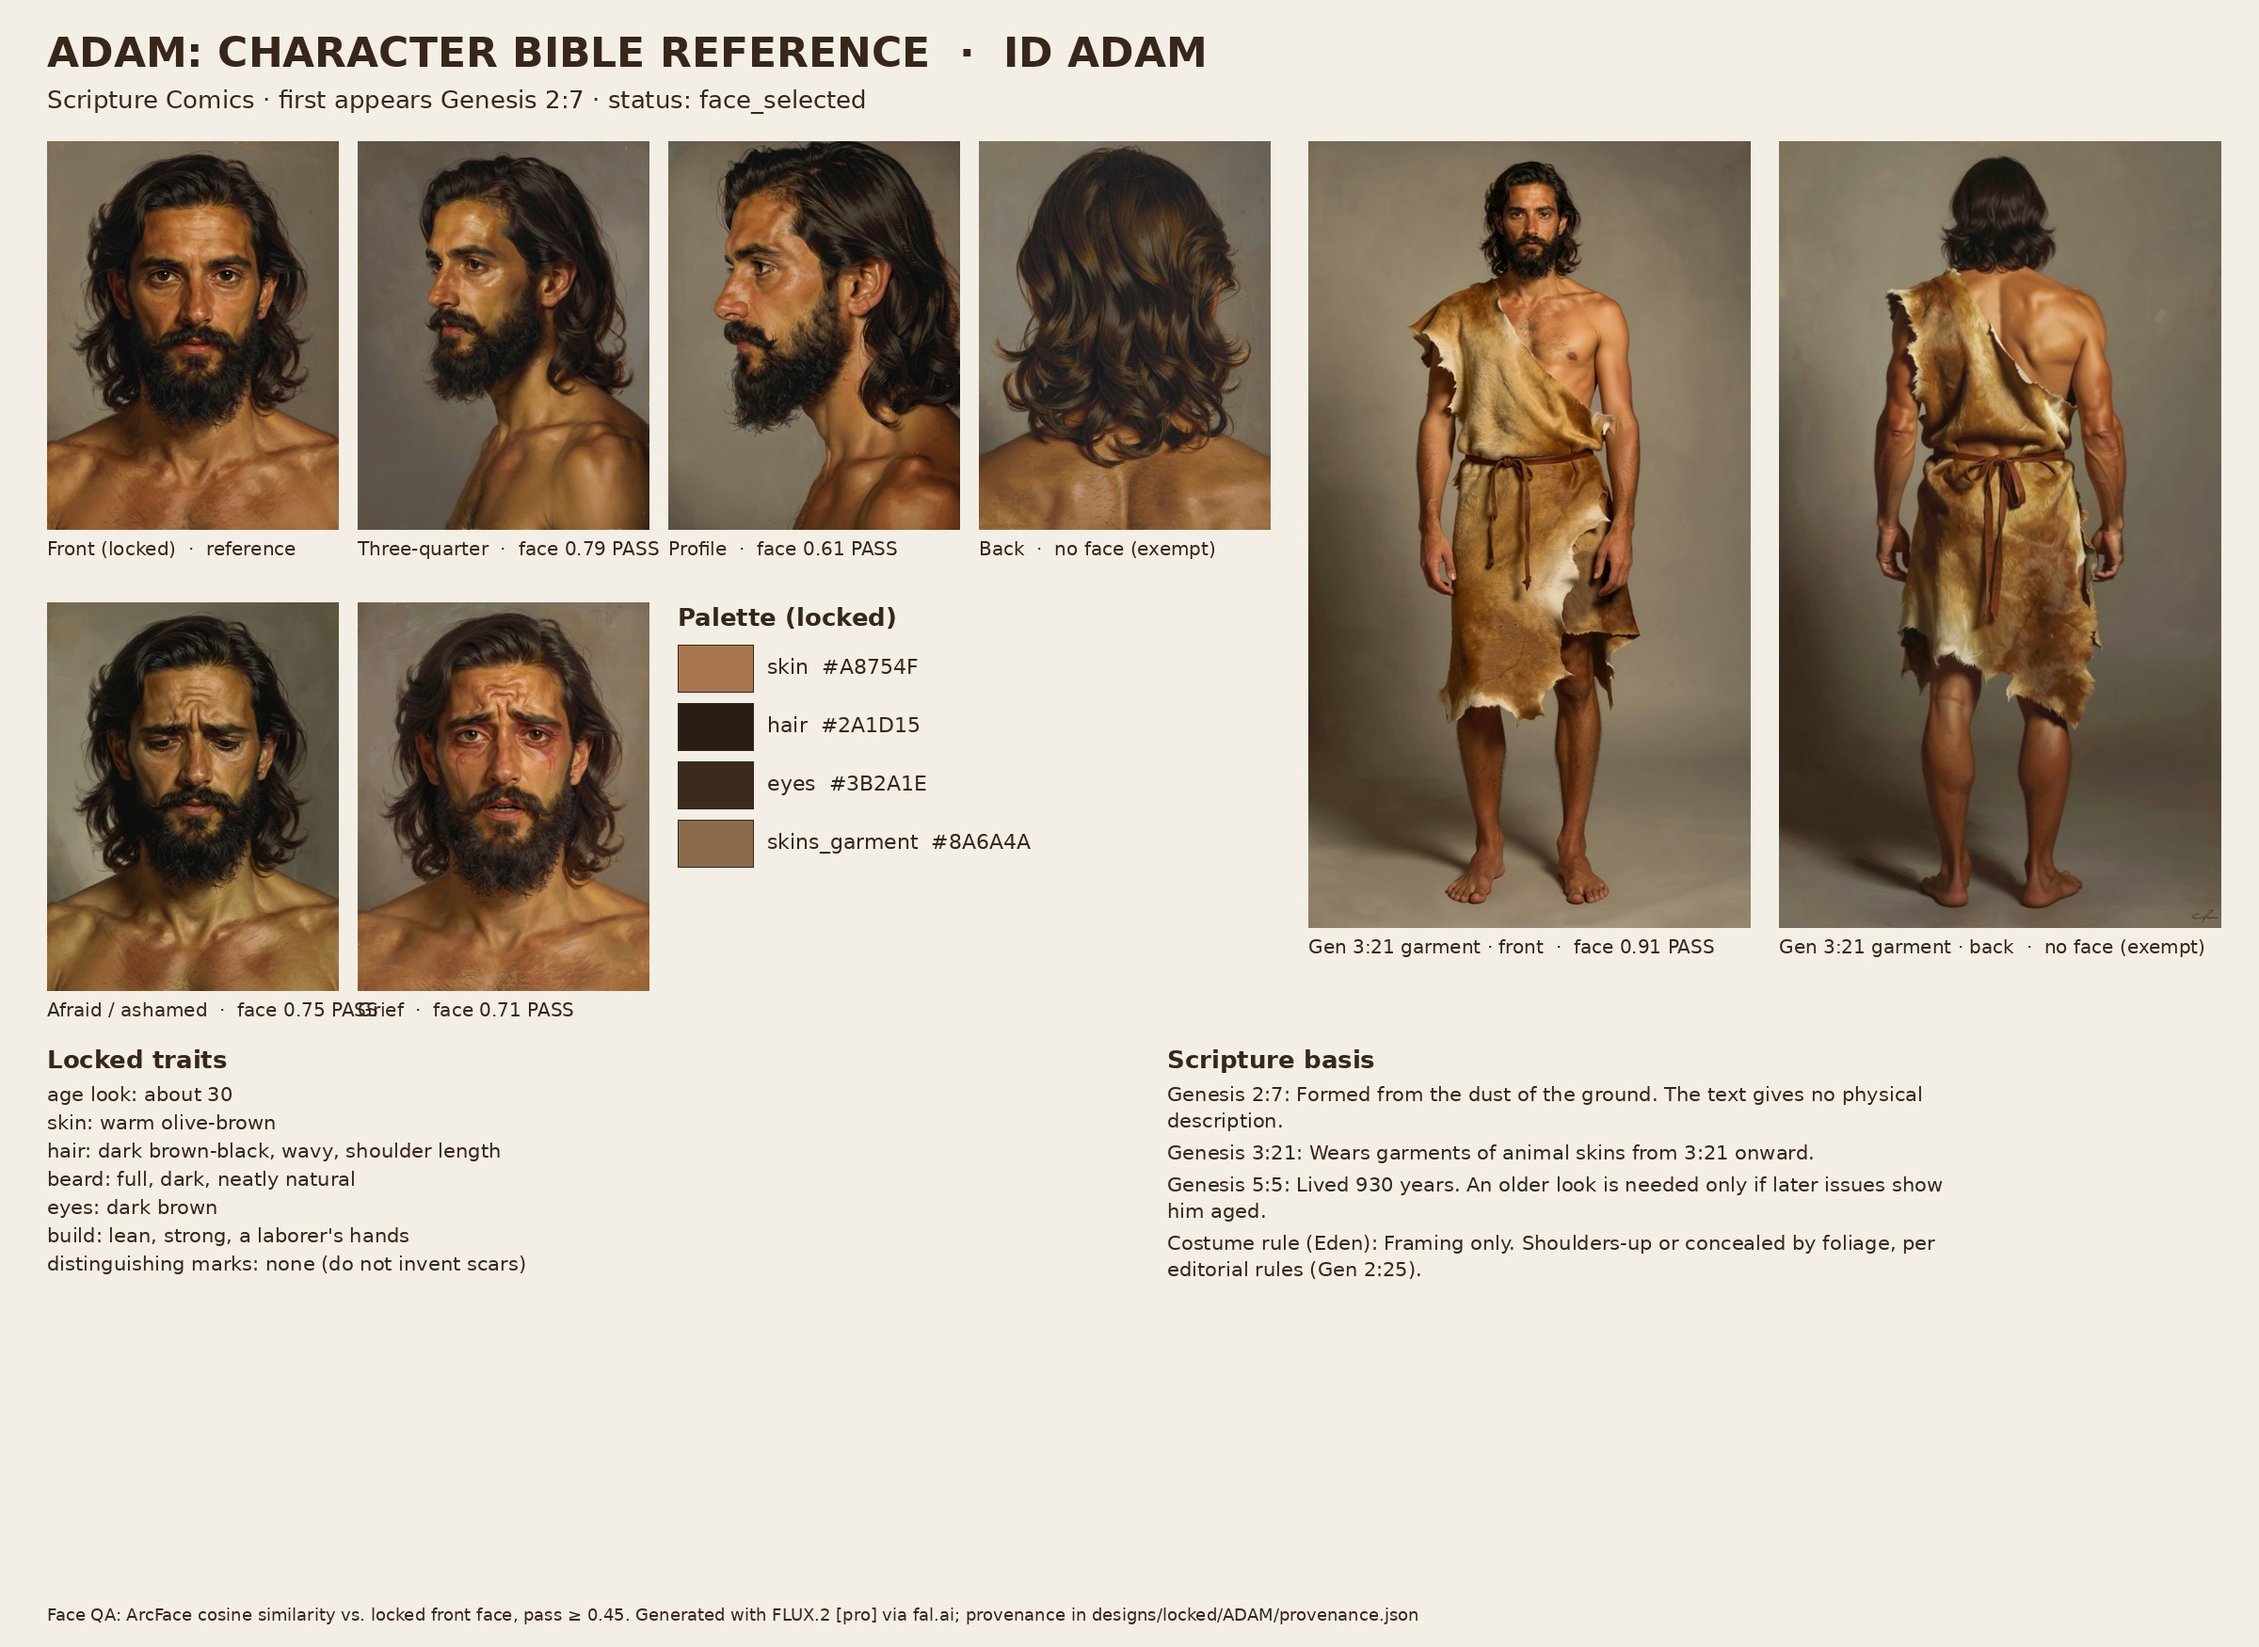
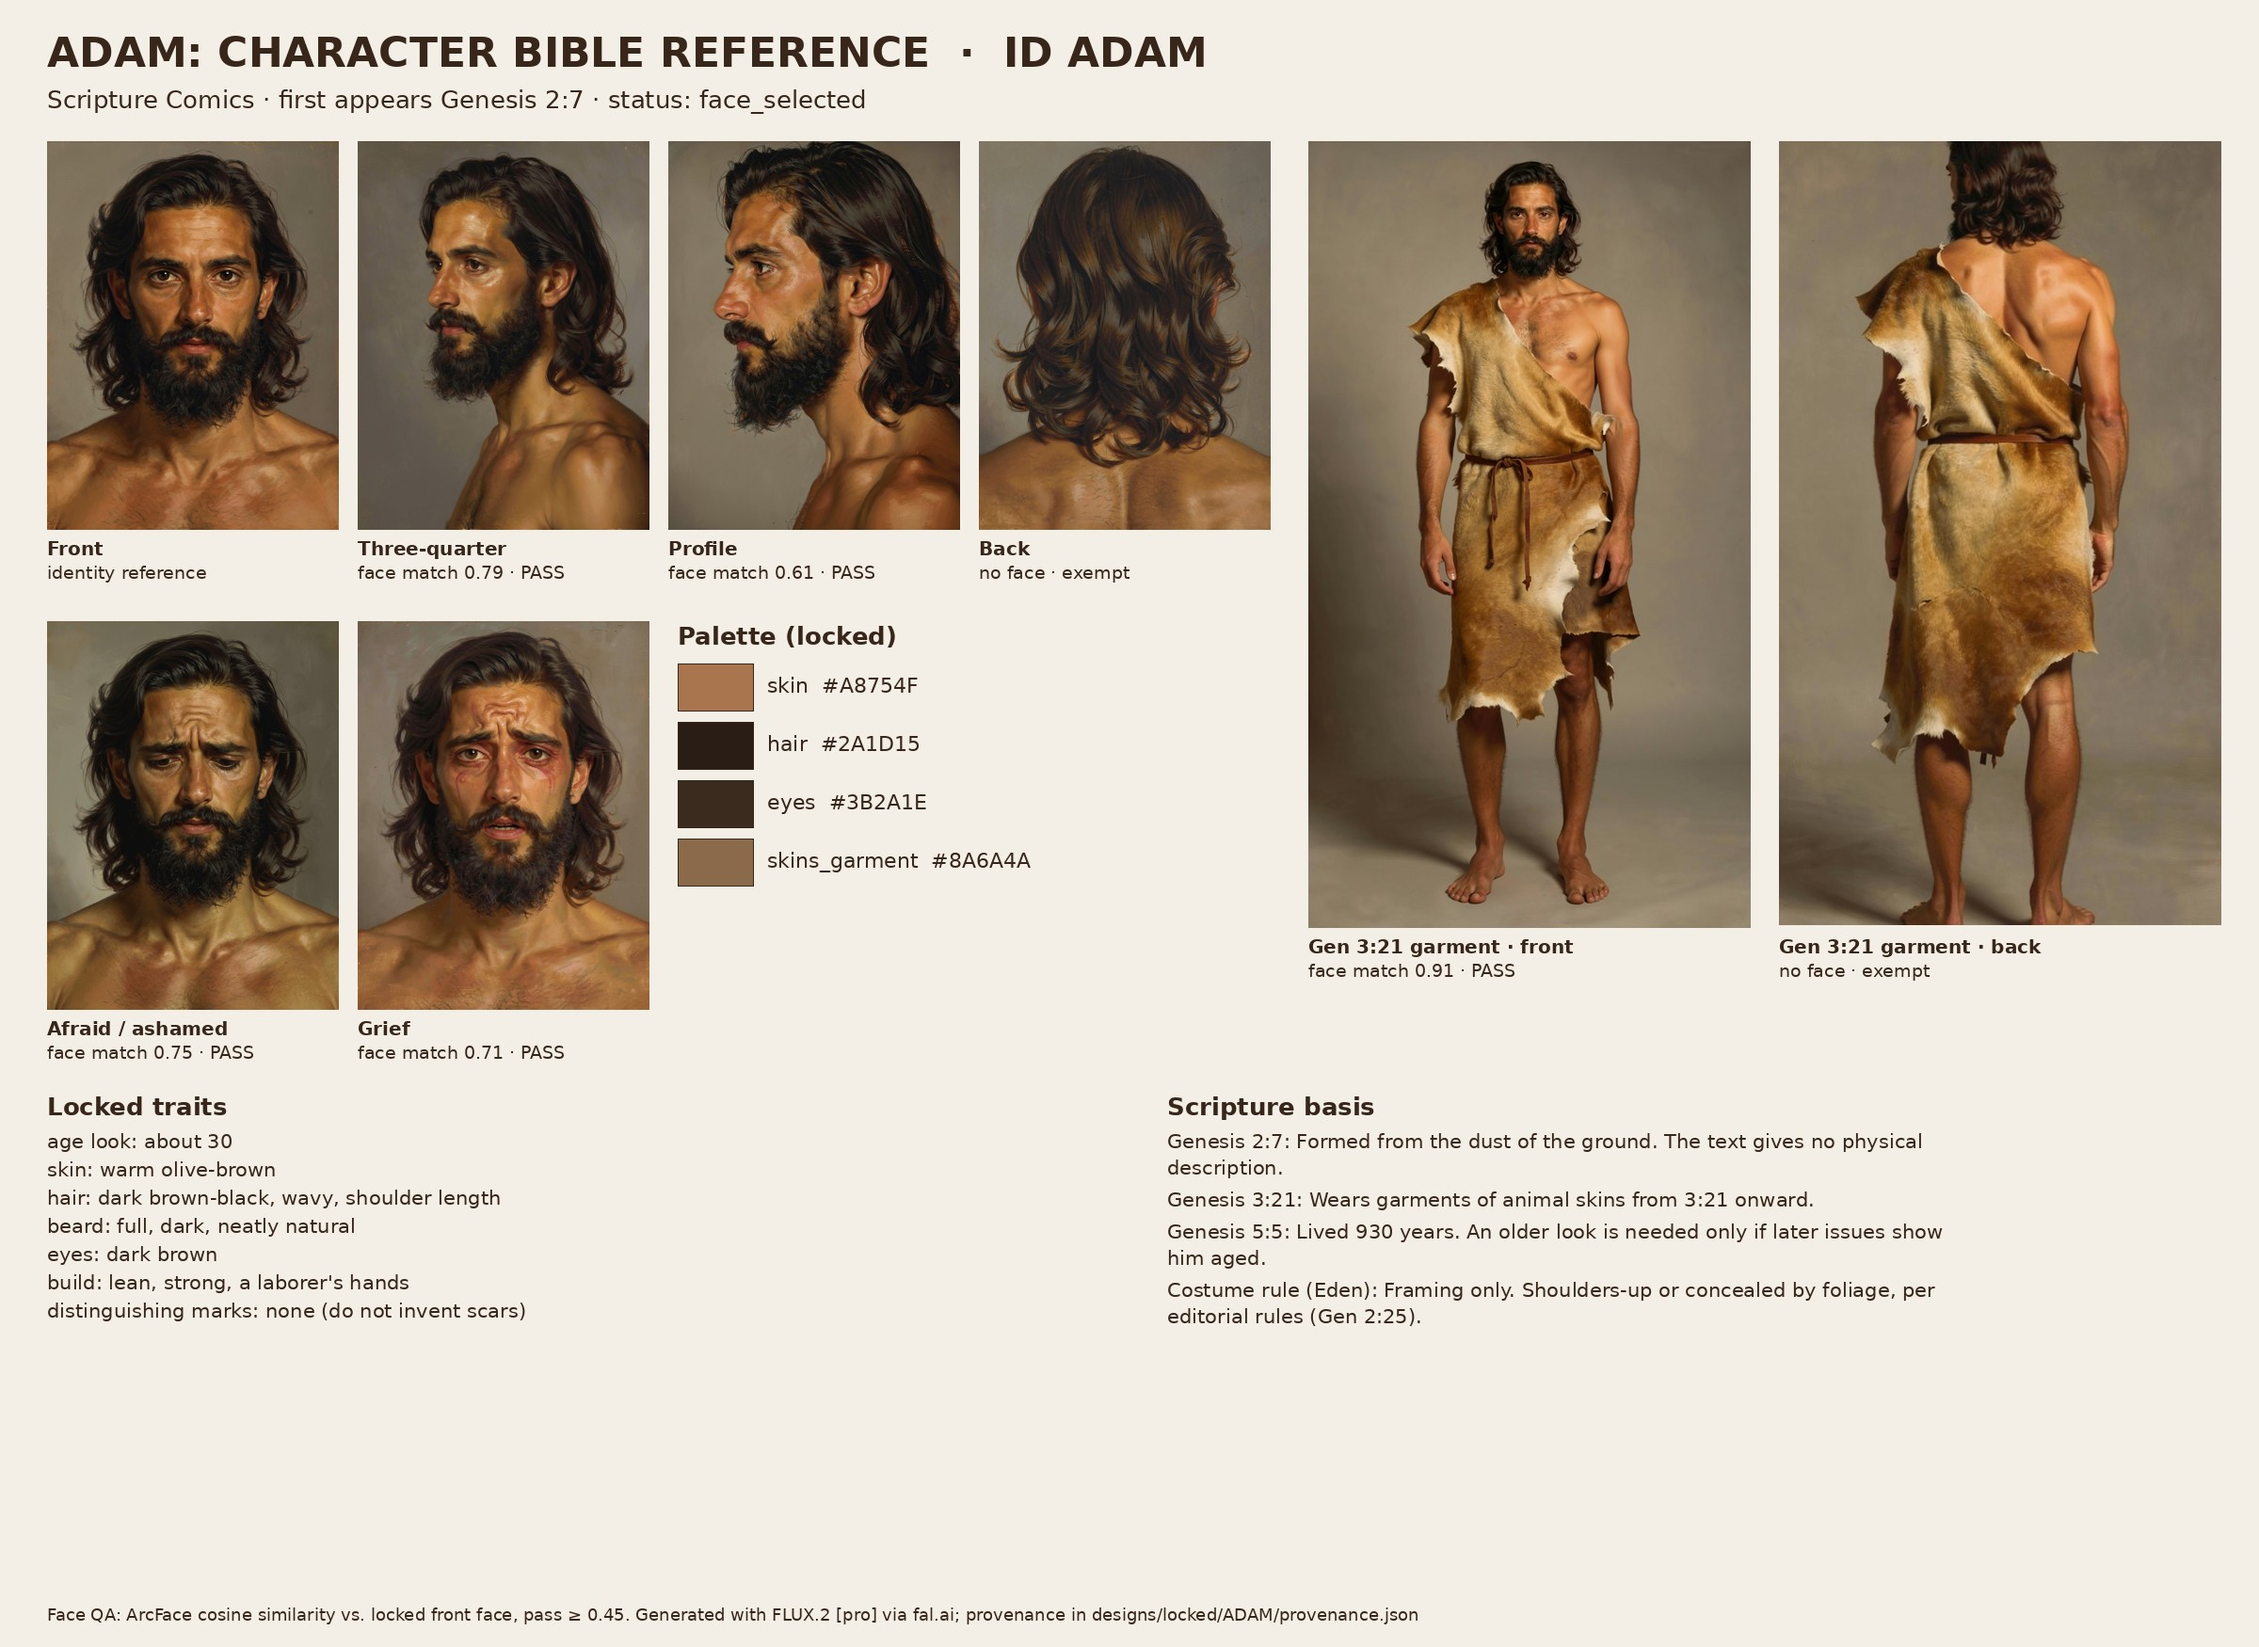
Reference sheets v2 (Adam, Eve): caption layout, Eve front in Gen 3:21 garment
Claude-Session: https://claude.ai/code/session_0138xQ31MRwWVthTXKS8HygJ

diff --git a/pipeline/build_reference_sheet.py b/pipeline/build_reference_sheet.py
@@ -16,25 +16,26 @@ g.text((50, 90), f"Scripture Comics · first appears {spec['first_appears']} · 
 def tile(fname, label, x, y, w, h):
     im = Image.open(d / fname).convert("RGB"); im.thumbnail((w, h)); sheet.paste(im, (x + (w - im.width) // 2, y))
     q = qa.get(fname, {}); s = q.get("similarity")
-    tag = f"{label}  ·  face {s:.2f} {q['result']}" if s is not None else (f"{label}  ·  reference" if not q else f"{label}  ·  no face (exempt)")
-    g.text((x, y + h + 8), tag, fill=INK, font=font(FR, 20))
-heads = [(f"{cid}_face_front.png", "Front (locked)"), (f"{cid}_face_three_quarter.png", "Three-quarter"),
+    sub = f"face match {s:.2f} · {q['result']}" if s is not None else ("identity reference" if not q else "no face · exempt")
+    g.text((x, y + h + 8), label, fill=INK, font=font(FB, 20)); g.text((x, y + h + 34), sub, fill=INK, font=font(FR, 19))
+front = f"{cid}_face_front_garment.png" if (d / f"{cid}_face_front_garment.png").exists() else f"{cid}_face_front.png"
+heads = [(front, "Front"), (f"{cid}_face_three_quarter.png", "Three-quarter"),
          (f"{cid}_face_profile.png", "Profile"), (f"{cid}_head_back.png", "Back")]
 for i, (f, l) in enumerate(heads): tile(f, l, 50 + i * 330, 150, 310, 413)
 exprs = [(f"{cid}_expression_afraid.png", "Afraid / ashamed"), (f"{cid}_expression_grief.png", "Grief")]
-for i, (f, l) in enumerate(exprs): tile(f, l, 50 + i * 330, 640, 310, 413)
+for i, (f, l) in enumerate(exprs): tile(f, l, 50 + i * 330, 660, 310, 413)
 bodies = [(f"{cid}_full_garment_front.png", "Gen 3:21 garment · front"), (f"{cid}_full_garment_back.png", "Gen 3:21 garment · back")]
 for i, (f, l) in enumerate(bodies): tile(f, l, 1390 + i * 500, 150, 470, 836)
 # palette
-x0, y0 = 720, 640; g.text((x0, y0), "Palette (locked)", fill=INK, font=font(FB, 26))
+x0, y0 = 720, 660; g.text((x0, y0), "Palette (locked)", fill=INK, font=font(FB, 26))
 for i, (k, hx) in enumerate(spec["palette"].items()):
     yy = y0 + 45 + i * 62; g.rectangle([x0, yy, x0 + 80, yy + 50], fill=hx, outline=INK)
     g.text((x0 + 95, yy + 10), f"{k}  {hx}", fill=INK, font=font(FR, 22))
 # traits and scripture
-y = 1110; g.text((50, y), "Locked traits", fill=INK, font=font(FB, 26)); y += 40
+y = 1160; g.text((50, y), "Locked traits", fill=INK, font=font(FB, 26)); y += 40
 for k, v in spec["locked_traits"].items():
     g.text((50, y), f"{k.replace('_', ' ')}: {v}", fill=INK, font=font(FR, 21)); y += 30
-y2 = 1110; g.text((1240, y2), "Scripture basis", fill=INK, font=font(FB, 26)); y2 += 40
+y2 = 1160; g.text((1240, y2), "Scripture basis", fill=INK, font=font(FB, 26)); y2 += 40
 for s in spec["scripture_basis"]:
     for line in textwrap.wrap(f"{s['ref']}: {s['note']}", 80):
         g.text((1240, y2), line, fill=INK, font=font(FR, 21)); y2 += 28
